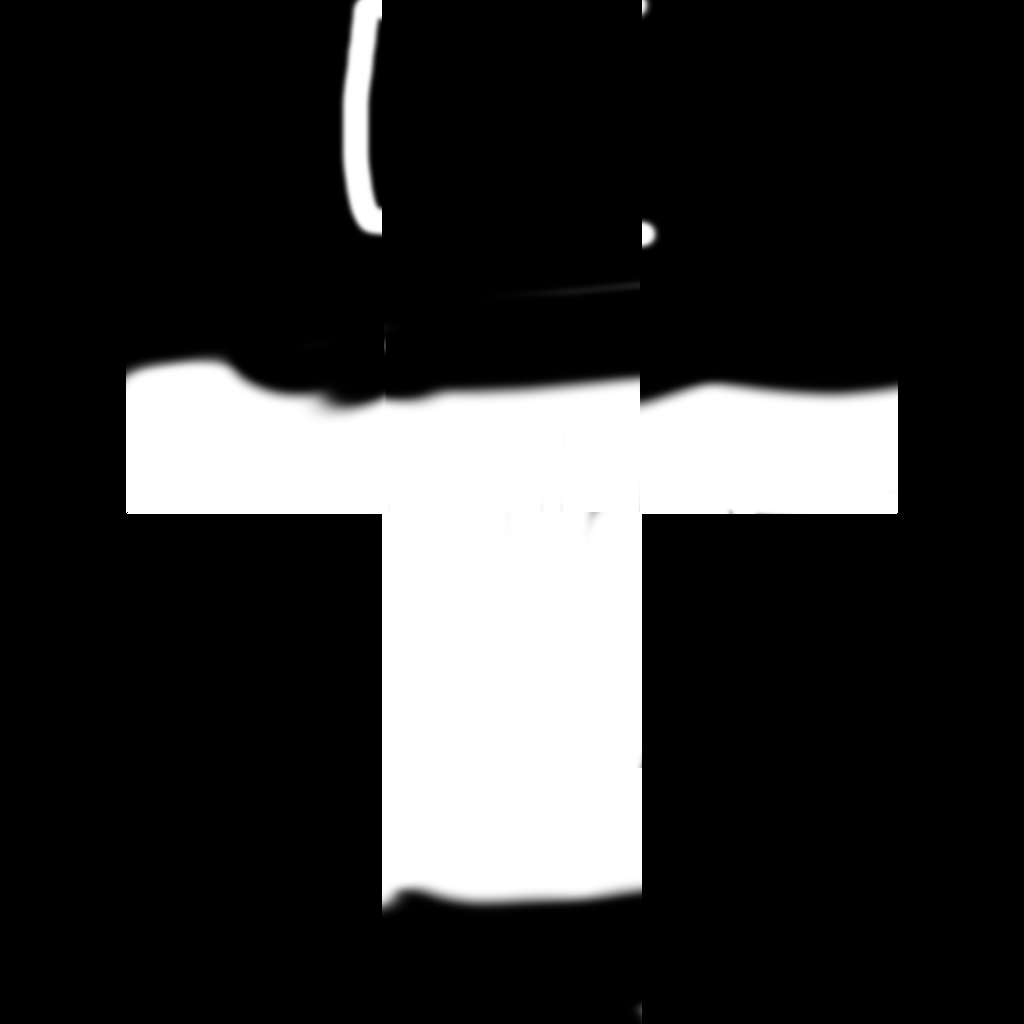
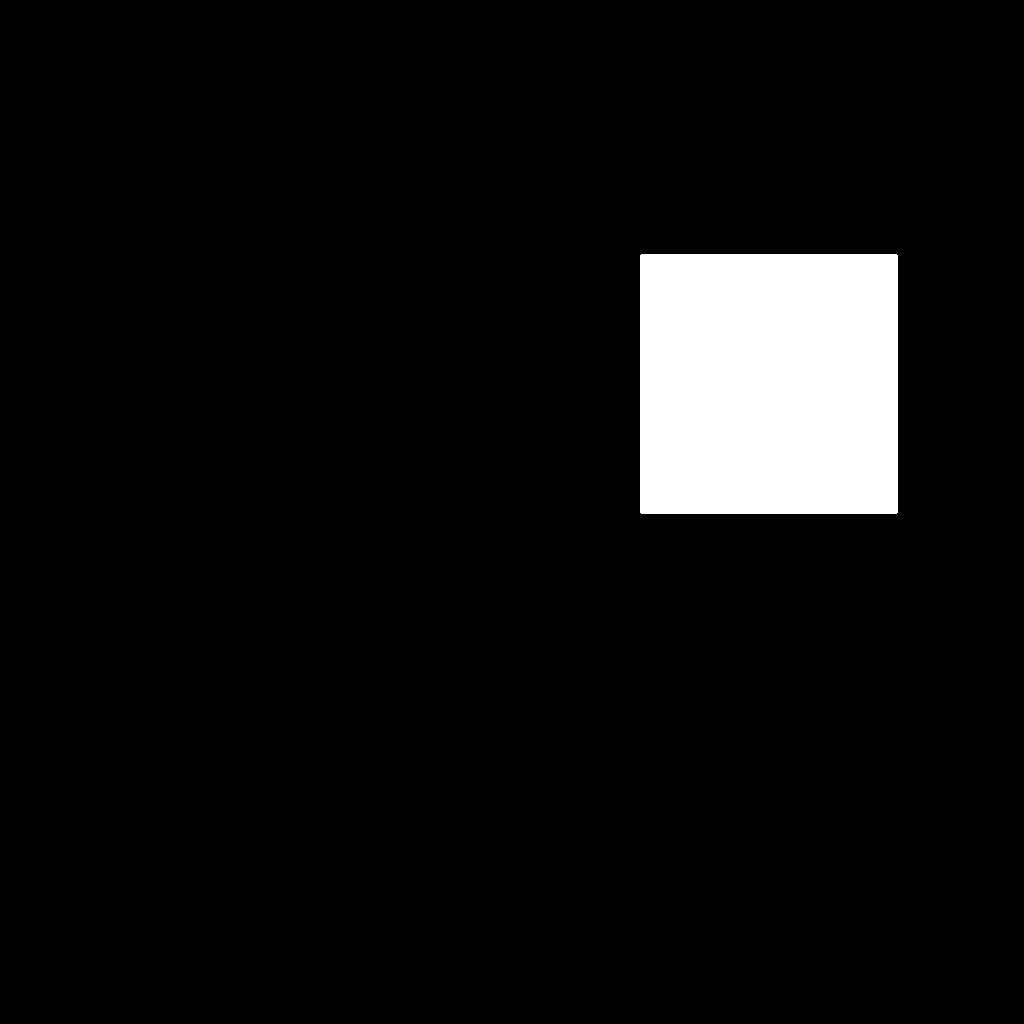
オブジェクトの追加

Changed region(s): [[0.125, 0.2188, 0.875, 0.9062], [0.3125, 0.0, 0.375, 0.25], [0.625, 0.0, 0.6562, 0.0312]]

diff --git a/DirectXGame/scene/SunnyStage.cpp b/DirectXGame/scene/SunnyStage.cpp
@@ -36,6 +36,9 @@ void SunnyStage::Initialize() {
 	// プレイヤー初期化
 	player_ = std::make_unique<Player>();
 	player_->Initialize(playerModels);
+
+	
+
 #pragma endregion
 
 #pragma region 障害物
@@ -68,6 +71,10 @@ void SunnyStage::Initialize() {
 	mirrorModel_ = (Model::CreateFromOBJ("mirror", true));
 	// 鏡のCSVファイル読み込み
 	LoadMirrorPopData();
+
+	// 境界の壁モデル読み込み
+	wallModel_ = (Model::CreateFromOBJ("block_WB", true));
+
 
 #pragma endregion
 
@@ -109,6 +116,11 @@ void SunnyStage::Initialize() {
 	worldTransform_.Initialize();
 	viewProjection_.Initialize();
 
+	Wall* wall_ = new Wall;
+	wall_->Initialize(wallModel_, {130.0f, 0.0f, 20.0f});
+
+	wall_->GetWorldPosition();
+
 	// summerSound_ = Audio::GetInstance()->LoadWave("Sound/summer.mp3"); // 晴BGM
 
 	// Audio::GetInstance()->Audio::PlayWave(summerSound_, true, 0.5f);
@@ -145,7 +157,7 @@ void SunnyStage::Update() {
 	for (const std::unique_ptr<Mirror>& mirror_ : mirrors_) {
 		mirror_->Update();
 	}
-
+	
 	for (const std::unique_ptr<Box>& box_ : boxs_) {
 		box_->Update();
 	}
@@ -441,7 +453,7 @@ void SunnyStage::Update() {
 	});
 
 	// 良霊のCSVファイルの更新処理
-	UpdateGoodSpiritPopCommands();
+	UpdateGoodSpiritPopCommands();	
 
 	// デスフラグの立った敵を削除
 	mirrors_.remove_if([](std::unique_ptr<Mirror>& item) {
@@ -634,6 +646,8 @@ void SunnyStage::Draw() {
 	// 3Dオブジェクト描画後処理
 	player_->Draw(viewProjection_);
 
+	wallModel_->Draw(worldTransform_, viewProjection_);
+
 	/*for (const std::unique_ptr<Skydome>& startSkydome_ : startSkydomes_) {
 	    startSkydome_->Draw(viewProjection_);
 	}
@@ -654,6 +668,7 @@ void SunnyStage::Draw() {
 	for (const std::unique_ptr<Mirror>& mirror_ : mirrors_) {
 		mirror_->Draw(viewProjection_);
 	}
+
 	//// 加速装置
 	// for (const std::unique_ptr<Accelerator>& accelerator_ : accelerators_) {
 	//	accelerator_->Draw(viewProjection_);

diff --git a/DirectXGame/scene/SunnyStage.h b/DirectXGame/scene/SunnyStage.h
@@ -23,6 +23,7 @@
 #include "stage/ground/Ground.h"
 #include "stage/guardRail/GuardRail.h"
 #include "stage/skydome/Skydome.h"
+#include "Wall.h"
 #include "timer.h"
 #include <cassert>
 #include <fstream>
@@ -169,9 +170,10 @@ private:
 	std::unique_ptr<Model> modelPlayerBody_;
 	std::unique_ptr<Model> modelPlayerLight_;
 	std::unique_ptr<Model> modelPlayerBack_;
+	//std::unique_ptr<Model> wallModel_;
 	std::list<Player*> players_;
 
-	// 障害物
+	//std::unique_ptr<Wall> wall_;
 
 	// 悪霊
 	std::list<std::unique_ptr<EvilSpirit>> evilSpirits_;
@@ -200,6 +202,9 @@ private:
 	std::stringstream boxPopCommands;
 	// モデル
 	Model* BoxModel_ = nullptr;
+
+	// モデル
+	Model* wallModel_ = nullptr;
 
 	// 加速装置
 	std::list<std::unique_ptr<Accelerator>> accelerators_;

diff --git a/DirectXGame/Wall.cpp b/DirectXGame/Wall.cpp
@@ -1,0 +1,27 @@
+#include "Wall.h"
+
+void Wall::Initialize(Model* model, Vector3 scele) {
+	assert(model);
+	model_ = model;
+
+	worldTransform_.Initialize();
+	worldTransform_.scale_ = scele;
+	worldTransform_.rotation_ = {0.0f, 0.0f, 0.0f};
+	worldTransform_.translation_ = {0,50,0};
+	worldTransform_.UpdateMatrix();
+}
+
+void Wall::Update() { worldTransform_.UpdateMatrix(); }
+
+void Wall::Draw(ViewProjection& view) { model_->Draw(worldTransform_, view); }
+
+
+Vector3 Wall::GetWorldPosition() {
+	Vector3 worldPos;
+
+	worldPos.x = worldTransform_.matWorld_.m[3][0];
+	worldPos.y = worldTransform_.matWorld_.m[3][1];
+	worldPos.z = worldTransform_.matWorld_.m[3][2];
+
+	return worldPos;
+};

diff --git a/DirectXGame/Wall.h b/DirectXGame/Wall.h
@@ -1,0 +1,37 @@
+#pragma once
+
+#include "ImGuiManager.h"
+#include "Input.h"
+#include "MT.h"
+#include "Model.h"
+#include "ViewProjection.h"
+#include "WorldTransform.h"
+#include "math.h"
+#include <cassert>
+#include <list>
+#include <optional>
+#include <stdio.h>
+class Wall {
+
+private:
+	WorldTransform worldTransform_;
+
+	Model* model_ = nullptr;
+	// デスフラグ
+	bool isDead_ = false;
+
+public:
+	// プレイヤー初期化
+	void Initialize(Model* model, Vector3 position);
+
+	// 更新処理
+	void Update();
+
+	// 描画
+	void Draw(ViewProjection& view);
+
+	bool IsDead() const { return isDead_; }
+
+	Vector3 GetWorldPosition();
+	
+};
